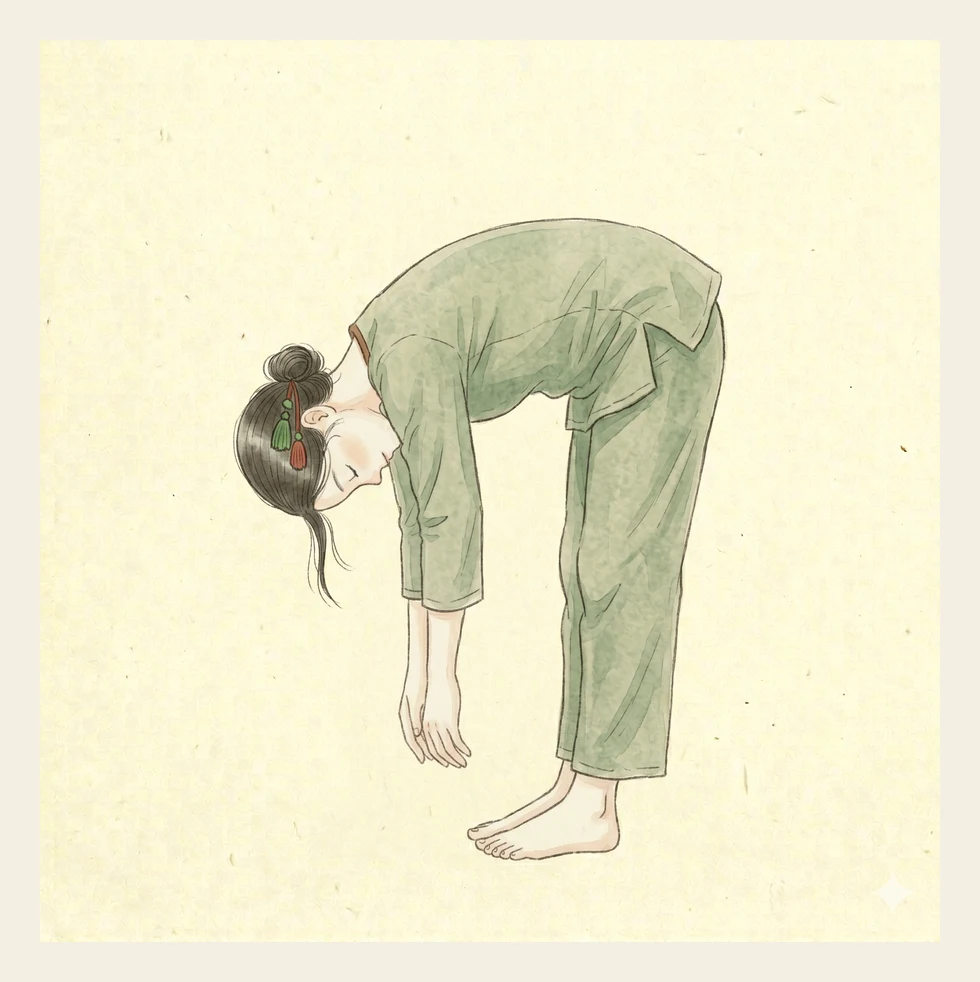
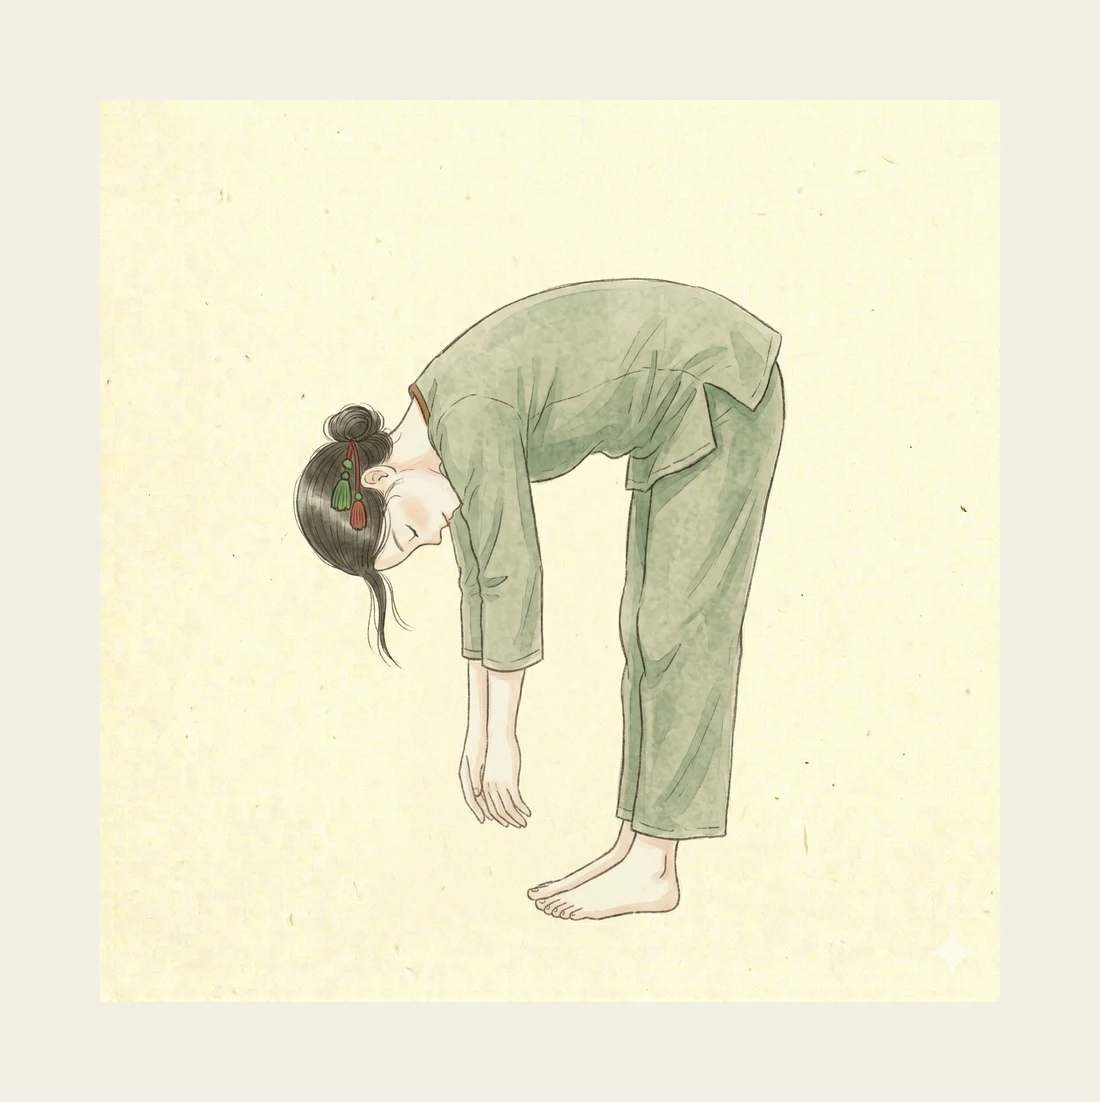
Circular mask, golden aura, more padding around figure

diff --git a/src/components/Figure.css b/src/components/Figure.css
@@ -4,9 +4,11 @@
   user-select: none;
   -webkit-user-select: none;
   pointer-events: none;
-  mask-image: radial-gradient(ellipse at center, black 45%, transparent 88%);
-  -webkit-mask-image: radial-gradient(ellipse at center, black 45%, transparent 88%);
-  filter: drop-shadow(0 0 32px rgba(196, 107, 74, 0.12));
+  mask-image: radial-gradient(circle at center, black 50%, rgba(0, 0, 0, 0.6) 68%, transparent 92%);
+  -webkit-mask-image: radial-gradient(circle at center, black 50%, rgba(0, 0, 0, 0.6) 68%, transparent 92%);
+  filter:
+    drop-shadow(0 0 18px rgba(212, 167, 106, 0.30))
+    drop-shadow(0 0 36px rgba(212, 167, 106, 0.14));
 }
 
 .figure-fallback {
